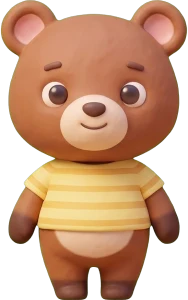
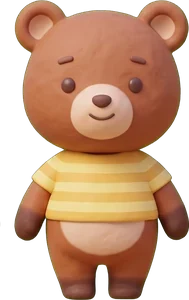
v44：五隻主角換成狐狸風格新圖，池塘換成生成圖
- 主角（狐狸、貓、兔子、狗、熊）各 4 套衣服換新圖，重新量走路的腳位
- 池塘底圖、錦鯉（身體會彎）、睡蓮、青蛙、蜻蜓、花瓣改用生成圖
- sw.js 版本 v44

Claude-Session: https://claude.ai/code/session_01CEkvYRBRdhHBFvxmRLacsg

diff --git a/js/corners2.js b/js/corners2.js
@@ -13,6 +13,10 @@
 /* ---------- 池塘 ---------- */
 const KOI={'#FFB25B':['#FF9A4D','#FFF7EE',null],'#FF8A80':['#FFF6EC','#FF6F5E',null],'#FFD86B':['#FFD25E','#FFF3C7',null],
   '#FFA8CF':['#FFF6EC','#FF9A4D','#7A6A86'],'#B9A0F0':['#CDB8F5','#FFF6EC',null]};
+/* v44：池塘換成生成圖（底圖、錦鯉、睡蓮、青蛙、蜻蜓、花瓣）。圖還沒載入時，先用原本程式畫的。 */
+const PSP={};['bg','koi_orange','koi_white','koi_gold','pad_big','pad_small','pad_flower','dfly','frog','petal'].forEach(n=>{const i=new Image();i.src=`img/p_${n}.webp`;PSP[n]=i});
+const pOk=n=>PSP[n]&&PSP[n].complete&&PSP[n].naturalWidth>0;
+const KOI_SP={'#FFB25B':'koi_orange','#FF8A80':'koi_white','#FFD86B':'koi_gold','#FFA8CF':'koi_white','#B9A0F0':'koi_orange'};
 function pondCanvas(A,nFish){
   const calm=A.id==='fishPond';/* 冷靜流程裡的看魚呼吸：少一點小驚喜，安安靜靜 */
   A.innerHTML=`<canvas class="pondcv"></canvas>`;const cv=A.querySelector('canvas');
@@ -62,6 +66,8 @@ function pondCanvas(A,nFish){
   function drawPad(p,i,t){const [px,py,r]=p;const k=p.kick*Math.sin((t-p.kt||0)*9)*Math.exp(-(t-(p.kt||0))*1.6);
     const rot=p.rot+Math.sin(t*.35+i)*.05+(isFinite(k)?k*.25:0),ox=Math.sin(t*.4+i*2)*1.2;
     x.fillStyle='rgba(20,70,80,.16)';x.beginPath();x.ellipse(px+5+ox,py+8,r,r*.92,0,0,6.28);x.fill();
+    const sp=i===2?'pad_flower':i===3?'pad_small':'pad_big';
+    if(pOk(sp)){const im=PSP[sp],d=r*2.15*(i===2?1.25:1),dh=d*im.naturalHeight/im.naturalWidth;x.save();x.translate(px+ox,py);x.rotate(rot);x.drawImage(im,-d/2,-dh/2,d,dh);x.restore();return null}
     const pg=x.createRadialGradient(px-r*.35,py-r*.4,r*.1,px,py,r);pg.addColorStop(0,'#B4E39C');pg.addColorStop(.7,'#7CC873');pg.addColorStop(1,'#62B262');
     x.fillStyle=pg;x.beginPath();x.moveTo(px+ox,py);x.arc(px+ox,py,r,rot+.16,rot+6.12);x.closePath();x.fill();
     x.strokeStyle='rgba(255,255,255,.28)';x.lineWidth=1.1;for(let v=0;v<7;v++){const a=rot+.5+v*.82;x.beginPath();x.moveTo(px+ox,py);x.lineTo(px+ox+Math.cos(a)*r*.82,py+Math.sin(a)*r*.82);x.stroke()}
@@ -77,7 +83,15 @@ function pondCanvas(A,nFish){
     return {x:fx,y:fy,a:Math.random()*6.28,s:.35+Math.random()*.2,c:FISH_C[i%5],len:W*(.085+Math.random()*.025),tx:fx,ty:fy,w:Math.random()*6,pick:0}});
   function spots(f){if(f.sp)return f.sp;let s=(f.c.charCodeAt(1)*7+Math.round(f.len*10))%97;const r=()=>(s=(s*37+11)%97)/97;
     f.sp=[...Array(4)].map(()=>[.35-r()*.75,(r()-.5)*.5,.12+r()*.12,r()<.3?2:1]);return f.sp}
-  function drawFish(f,t){const L=f.len,[base,patch,dark]=KOI[f.c]||[f.c,'#FFF6EC',null],N=9,pts=[];
+  /* 生成圖的魚：切成直條，一條一條往上下錯開，看起來身體在彎、尾巴在擺 */
+  function drawFishImg(f,im){const L=f.len*1.25,h=L*im.naturalHeight/im.naturalWidth,N=12,sw=im.naturalWidth/N,dw=L/N;
+    x.save();x.translate(f.x,f.y);x.rotate(f.a);
+    x.fillStyle='rgba(20,60,80,.16)';x.beginPath();x.ellipse(7,10,L*.42,h*.3,0,0,6.28);x.fill();
+    for(let j=0;j<N;j++){const u=1-(j+.5)/N;/* u：0 是頭、1 是尾巴 */
+      const oy=Math.sin(f.w-u*2.4)*L*.09*Math.pow(u,1.4);
+      x.drawImage(im,j*sw,0,sw+1,im.naturalHeight,-L/2+j*dw,-h/2+oy,dw+.6,h)}
+    x.restore()}
+  function drawFish(f,t){const sp=KOI_SP[f.c];if(sp&&pOk(sp))return drawFishImg(f,PSP[sp]);const L=f.len,[base,patch,dark]=KOI[f.c]||[f.c,'#FFF6EC',null],N=9,pts=[];
     for(let i=0;i<N;i++){const u=i/(N-1);pts.push([L*.5-u*L,Math.sin(f.w-u*2.4)*L*.11*Math.pow(u,1.4)])}
     const wid=u=>L*.22*Math.sin(Math.PI*Math.min(1,u*.9+.08))*(u>.75?1-(u-.75)*1.6:1);
     x.save();x.translate(f.x,f.y);x.rotate(f.a);
@@ -105,7 +119,11 @@ function pondCanvas(A,nFish){
   /* 5. 小生命：青蛙（點牠會跳進水裡，過一會兒爬回葉子上）、蜻蜓（偶爾飛來停一下）、飄過的花瓣 */
   const frog={pad:0,st:'sit',t:0,blink:0,x:0,y:0};
   function frogAt(){const p=pads[frog.pad];return [p[0]-p[2]*.1,p[1]-p[2]*.1]}
-  function drawFrog(px,py,s,t,eyesClosed){x.save();x.translate(px,py);x.scale(s,s);
+  function drawFrog(px,py,s,t,eyesClosed){
+    if(pOk('frog')){const im=PSP.frog,d=30*s,dh=d*im.naturalHeight/im.naturalWidth,br=1+Math.sin(t*2.2)*.025;
+      x.fillStyle='rgba(20,70,60,.2)';x.beginPath();x.ellipse(px+2*s,py+dh*.38,d*.42,d*.2,0,0,6.28);x.fill();
+      x.save();x.translate(px,py+dh*.45);x.scale(1/br,br*(eyesClosed?.96:1));x.drawImage(im,-d/2,-dh,d,dh);x.restore();return}
+    x.save();x.translate(px,py);x.scale(s,s);
     x.fillStyle='rgba(20,70,60,.2)';x.beginPath();x.ellipse(2,6,13,8,0,0,6.28);x.fill();
     x.fillStyle='#7CCB6B';[[-10,6],[10,6]].forEach(([fx,fy])=>{x.beginPath();x.ellipse(fx,fy,5,3,fx<0?.5:-.5,0,6.28);x.fill()});
     const g=x.createRadialGradient(-4,-4,1,0,0,14);g.addColorStop(0,'#B9EBA0');g.addColorStop(1,'#78C566');x.fillStyle=g;x.beginPath();x.ellipse(0,0,12,10,0,0,6.28);x.fill();
@@ -123,11 +141,14 @@ function pondCanvas(A,nFish){
     return [rx0+Math.sin(t*.9+1)*2.4,ry0-46]}
   const dfly={st:'away',t:performance.now()+(calm?1e12:6000+Math.random()*8000),x:-20,y:H*.3,sx:0,sy:0,tx:0,ty:0,ang:0};
   function drawDfly(t,flying){x.save();x.translate(dfly.x,dfly.y);x.rotate(dfly.ang);
+    if(pOk('dfly')){const im=PSP.dfly,d=34*W/340,dh=d*im.naturalHeight/im.naturalWidth,fl=flying?.72+.28*Math.abs(Math.sin(t*40)):1;
+      x.rotate(Math.PI/2);x.fillStyle='rgba(20,60,80,.12)';x.beginPath();x.ellipse(5,9,d*.3,dh*.3,0,0,6.28);x.fill();
+      x.scale(fl,1);x.drawImage(im,-d/2,-dh/2,d,dh);x.restore();return}
     const fl=flying?Math.abs(Math.sin(t*60)):.15;x.fillStyle=`rgba(210,235,255,${.45+fl*.25})`;x.strokeStyle='rgba(140,180,220,.5)';x.lineWidth=.6;
     [[-2,-1],[-2,1],[2,-1],[2,1]].forEach(([wx,sd])=>{x.beginPath();x.ellipse(wx,sd*8,3,8+(flying?fl*1.5:0),sd*(wx<0?.25:-.25),0,6.28);x.fill();x.stroke()});
     x.fillStyle='#7EC8E3';x.beginPath();x.ellipse(-9,0,10,1.8,0,0,6.28);x.fill();x.fillStyle='#5BB4D6';x.beginPath();x.ellipse(2,0,4,2.6,0,0,6.28);x.fill();
     x.fillStyle='#3E8FB3';x.beginPath();x.arc(6,-1.6,1.8,0,6.28);x.arc(6,1.6,1.8,0,6.28);x.fill();x.restore()}
-  function dflyTick(now,t){if(dfly.st==='away'){if(now>dfly.t){const land=Math.random()<.5?'reed':'pad';dfly.land=land;
+  function dflyTick(now,t){if(dfly.st==='away'){if(now>dfly.t){const land=!pOk('bg')&&Math.random()<.5?'reed':'pad';dfly.land=land;
       dfly.st='in';dfly.sx=Math.random()<.5?-20:W+20;dfly.sy=H*(.15+Math.random()*.5);dfly.x=dfly.sx;dfly.y=dfly.sy;dfly.t0=now}return}
     const tgt=dfly.land==='reed'?P.reedTip:[pads[2][0]+pads[2][2]*.4,pads[2][1]-pads[2][2]*.3];
     if(dfly.st==='in'){const k=Math.min(1,(now-dfly.t0)/3200),e=1-Math.pow(1-k,3);const nx=dfly.sx+(tgt[0]-dfly.sx)*e+Math.sin(k*9)*12*(1-k),ny=dfly.sy+(tgt[1]-dfly.sy)*e+Math.cos(k*7)*10*(1-k);
@@ -141,6 +162,7 @@ function pondCanvas(A,nFish){
       if(!inside(p.x,p.y,.9)||now-p.born>60000){petals.splice(i,1);continue}
       if(Math.random()<.004)P.rip.push({x:p.x,y:p.y,r:2,a:.25,m:W*.05});
       x.save();x.translate(p.x,p.y);x.rotate(p.r);x.fillStyle='rgba(30,80,90,.12)';x.beginPath();x.ellipse(2,3,5,3,0,0,6.28);x.fill();
+      if(pOk('petal')){const d=13*W/340;x.drawImage(PSP.petal,-d/2,-d/2,d,d*PSP.petal.naturalHeight/PSP.petal.naturalWidth);x.restore();continue}
       x.fillStyle='#FFC6DC';x.beginPath();x.ellipse(0,0,5.4,3.2,0,0,6.28);x.fill();x.fillStyle='#FFE1EC';x.beginPath();x.ellipse(-1.2,-.6,2.6,1.2,0,0,6.28);x.fill();x.restore()}}
 
   /* 碰水面：漣漪＋水滴聲；碰到葉子會搖；碰到青蛙牠會跳進水裡 */
@@ -172,10 +194,11 @@ function pondCanvas(A,nFish){
     do{f.tx=cx+(Math.random()-.5)*rx*1.7;f.ty=cy+(Math.random()-.5)*ry*1.7}while(!inside(f.tx,f.ty,.78))}
   function frame(now){if(!cv.isConnected)return;
     const t=(now-P.t0)/1000;
-    x.drawImage(bgC,0,0,W,H);
+    const img=pOk('bg');
+    if(img){const im=PSP.bg,k=Math.max(W/im.naturalWidth,H/im.naturalHeight),iw=im.naturalWidth*k,ih=im.naturalHeight*k;x.drawImage(im,(W-iw)/2,(H-ih)/2,iw,ih)}else x.drawImage(bgC,0,0,W,H);
     x.save();blob(x,.97);x.clip();
     /* 水底的光紋，慢慢流動 */
-    x.strokeStyle='rgba(255,255,255,.09)';x.lineWidth=2.2;
+    x.strokeStyle=`rgba(255,255,255,${img?.05:.09})`;x.lineWidth=2.2;
     for(let i=0;i<7;i++){x.beginPath();for(let s=0;s<=20;s++){const u=s/20,px=u*W,py=H*(i/6)+Math.sin(u*7+t*.8+i)*9+Math.sin(u*3-t*.5+i*2)*6;s?x.lineTo(px,py):x.moveTo(px,py)}x.stroke()}
     for(let i=0;i<7;i++){x.beginPath();for(let s=0;s<=20;s++){const u=s/20,py=u*H,px=W*(i/6)+Math.sin(u*6-t*.7+i*1.3)*11+Math.sin(u*11+t*.4)*4;s?x.lineTo(px,py):x.moveTo(px,py)}x.stroke()}
     if(P.ring){const R=P.ring;x.strokeStyle='rgba(255,255,255,.75)';x.lineWidth=4;x.beginPath();x.arc(W/2,H/2,R.r,0,6.28);x.stroke();
@@ -193,7 +216,7 @@ function pondCanvas(A,nFish){
     /* 水面上的東西 */
     P.food.forEach(p=>{p.y+=.02;p.x+=Math.sin(now/900+p.x)*.05;x.fillStyle='rgba(20,60,80,.15)';x.beginPath();x.arc(p.x+2,p.y+3,3,0,6.28);x.fill();
       x.fillStyle='#C99A5E';x.beginPath();x.arc(p.x,p.y,3,0,6.28);x.fill();x.fillStyle='#E9C48E';x.beginPath();x.arc(p.x-.8,p.y-.8,1.1,0,6.28);x.fill()});
-    pads.forEach((p,i)=>{const ox=drawPad(p,i,t);if(i===2)lotus(p[0]+ox+p[2]*.15,p[1]-p[2]*.1,W/420,t);if(i===3)bud(p[0]+ox,p[1]-p[2]*.2,W/380)});
+    pads.forEach((p,i)=>{const ox=drawPad(p,i,t);if(ox===null)return;if(i===2)lotus(p[0]+ox+p[2]*.15,p[1]-p[2]*.1,W/420,t);if(i===3)bud(p[0]+ox,p[1]-p[2]*.2,W/380)});
     frogTick(now,t);
     if(!calm)petalTick(now);
     P.rip=P.rip.filter(r=>r.a>0.02);P.rip.forEach(r=>{r.r+=.9;r.a*=.975;x.strokeStyle=`rgba(255,255,255,${r.a})`;x.lineWidth=2;x.beginPath();x.ellipse(r.x,r.y,r.r,r.r*.86,0,0,6.28);x.stroke();
@@ -202,8 +225,7 @@ function pondCanvas(A,nFish){
     x.fillStyle='rgba(255,255,255,.16)';x.beginPath();x.ellipse(cx-rx*.35+Math.sin(t*.2)*6,cy-ry*.55,rx*.32,ry*.08,-.15,0,6.28);x.fill();
     for(let i=0;i<5;i++){const a=Math.max(0,Math.sin(t*1.3+i*2.1));if(a<.2)continue;const [gx,gy]=edge(i*1.3+.4,.55+(i%3)*.12);x.fillStyle=`rgba(255,255,255,${a*.8})`;x.beginPath();x.ellipse(gx,gy,4*a,1.1,0,0,6.28);x.fill()}
     x.restore();
-    x.drawImage(fgC,0,0,W,H);
-    P.reedTip=drawReeds(t);
+    if(img)P.reedTip=[W*.12,H*.2];else{x.drawImage(fgC,0,0,W,H);P.reedTip=drawReeds(t)}
     dflyTick(now,t);
     raf=requestAnimationFrame(frame)}
   raf=requestAnimationFrame(frame);

diff --git a/js/yard.js b/js/yard.js
@@ -209,10 +209,10 @@ function bindScene(){
   startWander();
 }
 
-/* ---------- 主角：五隻都換成新比例的生成圖，可以換 4 套衣服 ---------- */
+/* ---------- 主角：五隻都換成新比例的生成圖，可以換 4 套衣服（v44 換成狐狸風格的新圖） ---------- */
 HEROES.dog=HEROES.dog||{name:'小狗',c:'#D9824A'};
 /* 每張圖：[寬(高都是300), 腳縫開始的高度, 兩腳中間, 腳的左邊, 腳的右邊]（比例，程式量出來的） */
-const Y_HM={bear1:[188,0.89,0.5,0.229,0.766],bear2:[187,0.89,0.497,0.23,0.765],bear3:[188,0.89,0.5,0.229,0.766],bear4:[187,0.89,0.497,0.23,0.765],dog1:[213,0.883,0.5,0.258,0.742],dog2:[214,0.88,0.5,0.257,0.743],dog3:[213,0.883,0.495,0.254,0.742],dog4:[214,0.883,0.498,0.252,0.738],rabbit1:[130,0.913,0.5,0.2,0.792],rabbit2:[130,0.913,0.5,0.2,0.792],rabbit3:[130,0.913,0.496,0.2,0.792],rabbit4:[129,0.913,0.5,0.202,0.798],cat1:[191,0.893,0.563,0.309,0.812],cat2:[191,0.893,0.563,0.309,0.812],cat3:[191,0.893,0.56,0.309,0.812],cat4:[191,0.893,0.56,0.309,0.806],fox1:[186,0.897,0.5,0.253,0.747],fox2:[186,0.897,0.505,0.253,0.753],fox3:[186,0.897,0.5,0.253,0.747],fox4:[186,0.897,0.5,0.247,0.747]};
+const Y_HM={fox1:[190,0.893,0.534,0.27,0.793],fox2:[194,0.893,0.546,0.29,0.798],fox3:[193,0.893,0.544,0.286,0.802],fox4:[194,0.893,0.546,0.284,0.798],cat1:[192,0.887,0.542,0.262,0.816],cat2:[227,0.887,0.617,0.375,0.854],cat3:[225,0.887,0.611,0.37,0.852],cat4:[192,0.887,0.547,0.267,0.822],rabbit1:[134,0.907,0.496,0.201,0.791],rabbit2:[153,0.907,0.556,0.297,0.821],rabbit3:[153,0.907,0.559,0.297,0.821],rabbit4:[153,0.907,0.559,0.297,0.821],dog1:[195,0.887,0.503,0.232,0.774],dog2:[200,0.887,0.518,0.25,0.78],dog3:[199,0.887,0.515,0.246,0.779],dog4:[200,0.887,0.515,0.245,0.78],bear1:[175,0.883,0.497,0.187,0.807],bear2:[189,0.883,0.537,0.25,0.824],bear3:[189,0.883,0.534,0.25,0.824],bear4:[189,0.883,0.534,0.245,0.824]};
 const Y_HERO_NEW={bear:1,dog:1,fox:1,rabbit:1,cat:1};
 /* 帽子戴在哪：頭頂離圖最上面多遠（兔子有長耳朵，頭比較低）、頭寬是圖寬的幾成 */
 const Y_HEAD={bear:[.03,.8],dog:[.04,.6],fox:[.05,.66],rabbit:[.28,.78],cat:[.05,.66]};

diff --git a/sw.js b/sw.js
@@ -1,6 +1,6 @@
 /* 離線快取（v21）：第一次開啟時把整個工具存進裝置，之後沒有網路也能開，而且一點就開。
    ★ 每次更新程式或圖片，都要把下面的 VERSION 改掉（例如 v21 → v22），裝置才會抓新版。 */
-const VERSION='v43';
+const VERSION='v44';
 const CACHE='calm-monster-'+VERSION;
 const FILES=[
   './',
@@ -94,6 +94,17 @@ const FILES=[
   'img/defiantg2.webp',
   'img/defiantg3.webp',
   'img/defiantg4.webp',
+  'img/p_bg.webp',
+  'img/p_koi_orange.webp',
+  'img/p_koi_white.webp',
+  'img/p_koi_gold.webp',
+  'img/p_pad_big.webp',
+  'img/p_pad_small.webp',
+  'img/p_pad_flower.webp',
+  'img/p_dfly.webp',
+  'img/p_frog.webp',
+  'img/p_petal.webp',
+  'img/hero_dog.webp',
   'img/hero_bear.webp',
   'img/hero_cat.webp',
   'img/hero_fox.webp',
